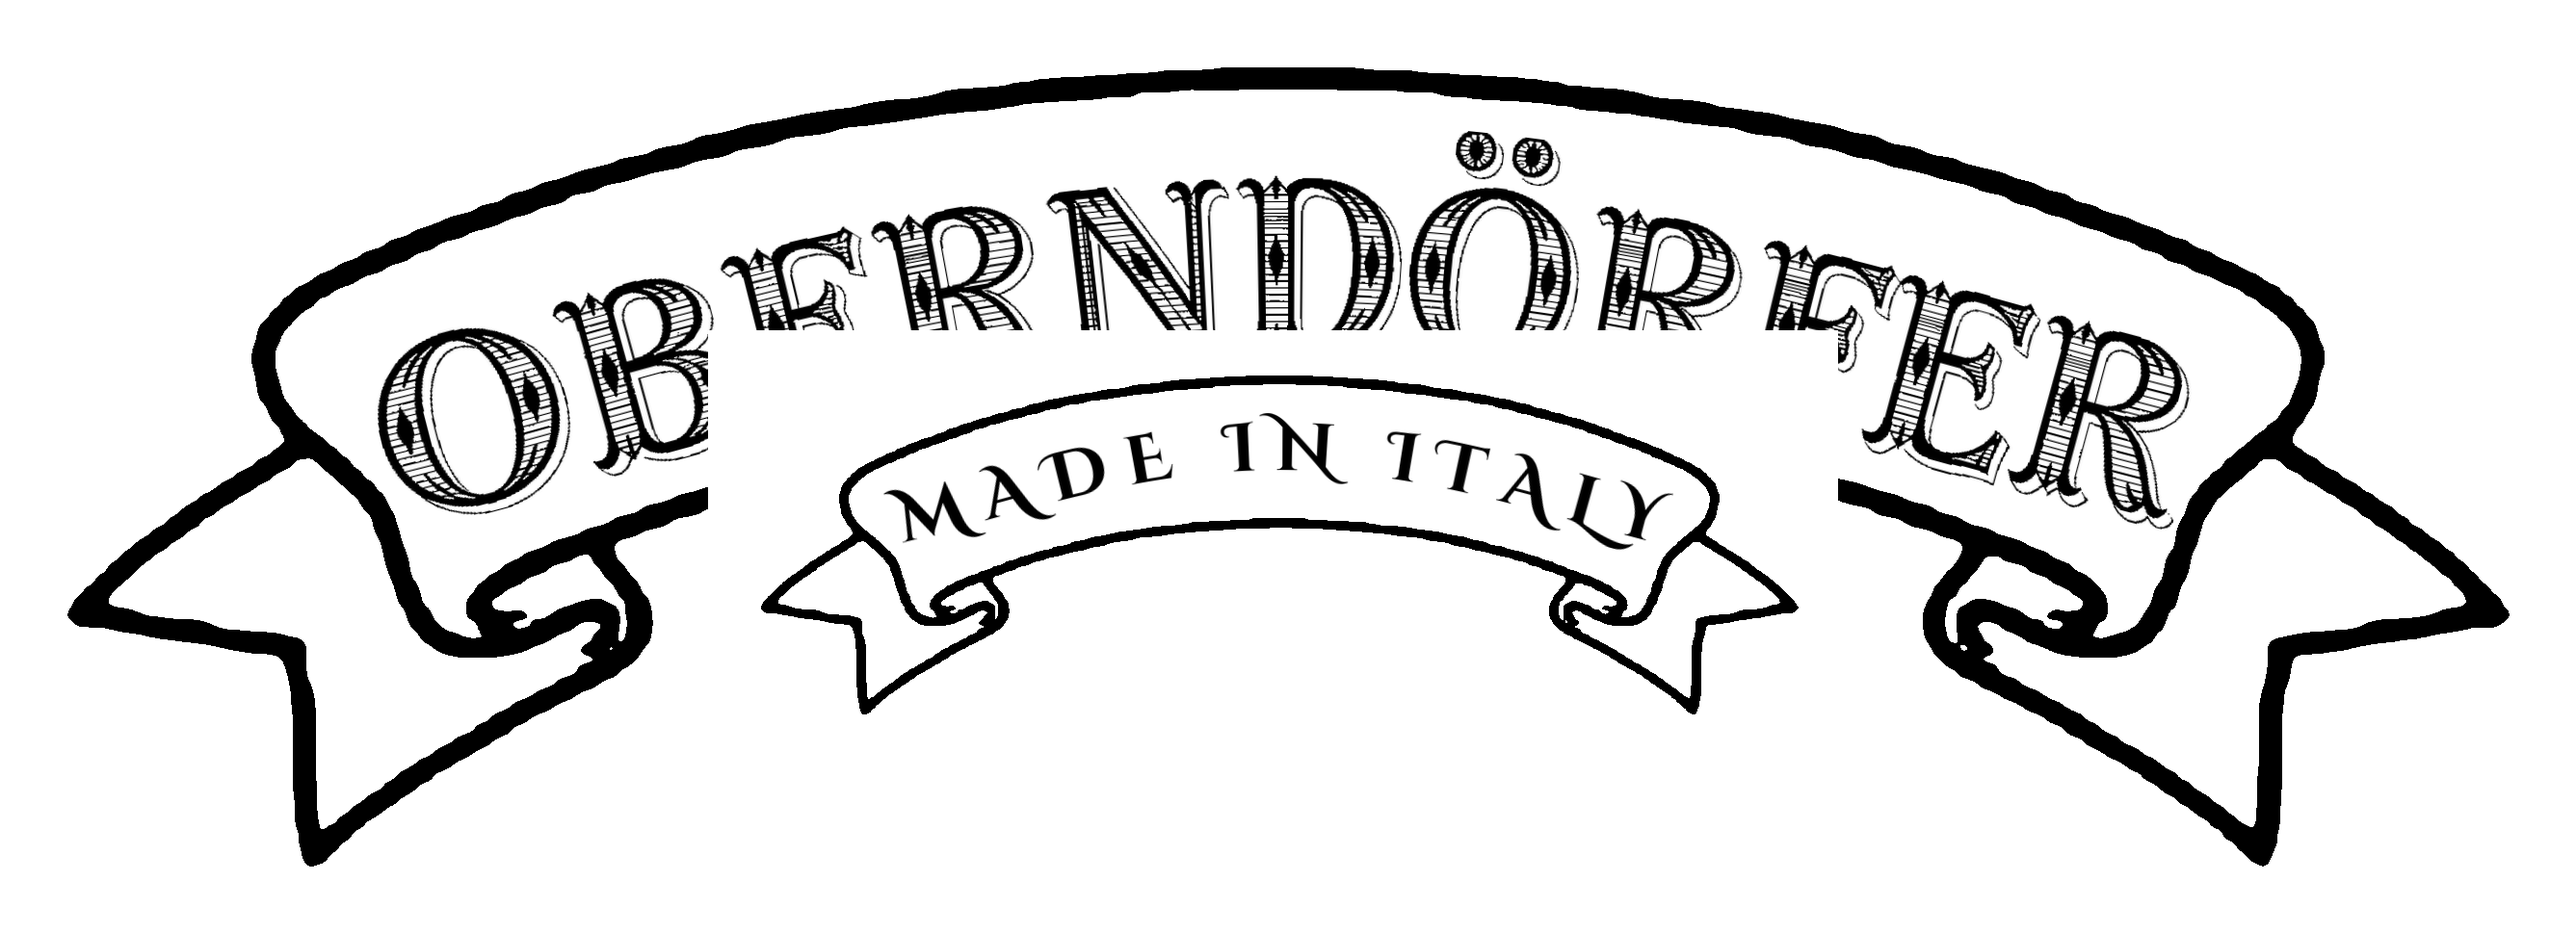
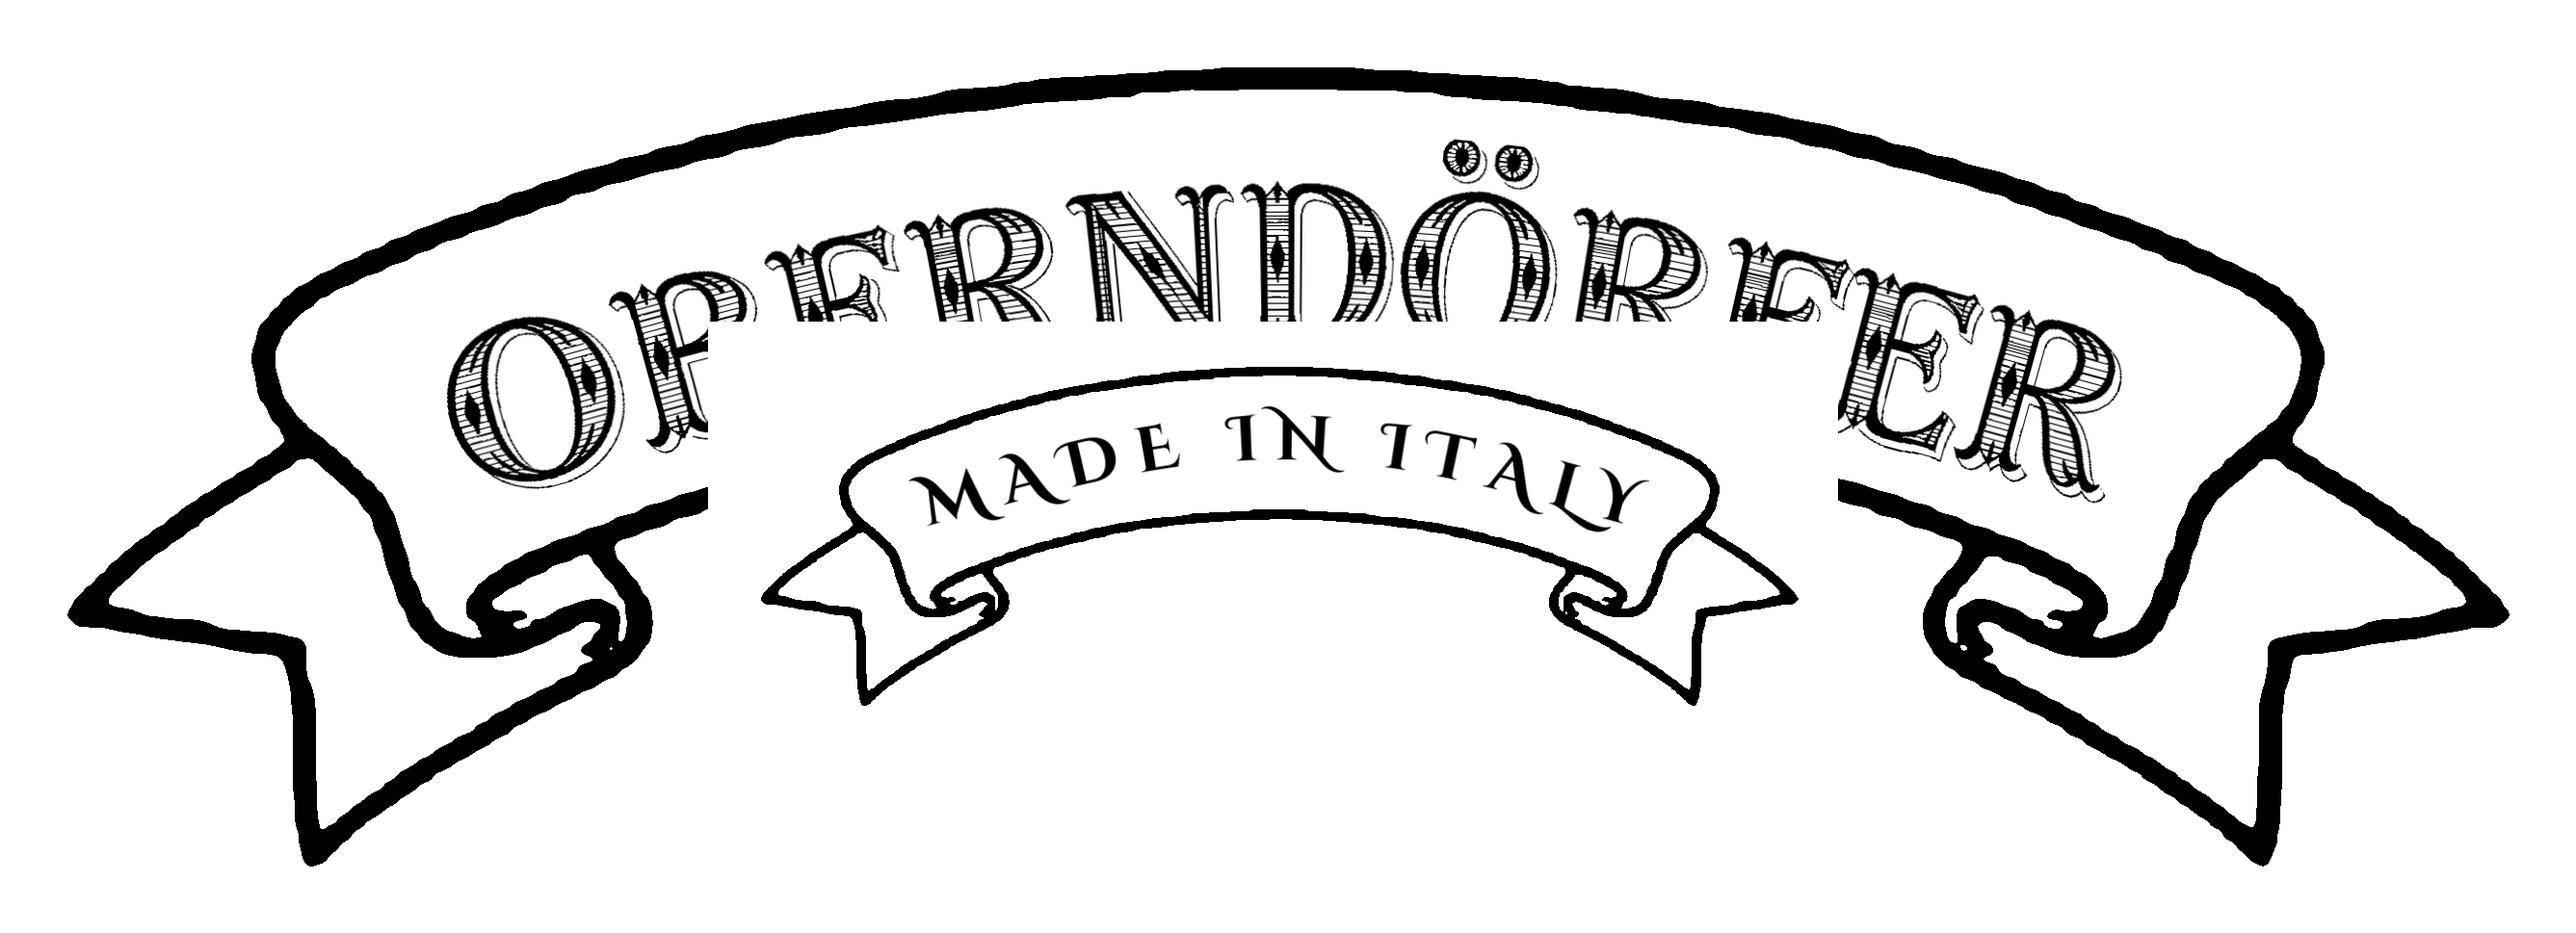
Fit the wordmark by real containment, not a percentile
The previous fit allowed 3% of columns to overflow, which let the O and
the final R cross the band's lower edge. Replaced with a binary search
on scale that rasterises the bent wordmark and requires every pixel,
grown by the margin, to lie inside the traced band face. Verified: 0
pixels outside.

Claude-Session: https://claude.ai/code/session_01Suw872BgehQS8UkrxB9n1u

Changed region(s): [[0.1242, 0.1238, 0.8691, 0.743]]

diff --git a/assets/oberndorfer-plate/chosen/lockup.py b/assets/oberndorfer-plate/chosen/lockup.py
@@ -51,7 +51,8 @@ def face_of(im):
     best=max(sz.items(),key=lambda kv:kv[1])[0]
     return lab==best
 
-def fit_word(ribimg, face, wm, margin, pctl=3):
+def fit_word(ribimg, face, wm, margin=10, clearance_iters=5):
+    """Largest scale whose BENT wordmark lies wholly inside the band face."""
     H,W=face.shape; SW,SH=wm.size
     cx=[];cy=[];hh=[]
     for x in range(W):
@@ -60,19 +61,38 @@ def fit_word(ribimg, face, wm, margin, pctl=3):
     cx=np.array(cx,float);cy=np.array(cy,float);hh=np.array(hh,float)
     lo,hi=np.percentile(cx,[4,96]); sel=(cx>=lo)&(cx<=hi)
     CO=np.polyfit(cx[sel],cy[sel],4); DCO=np.polyder(CO)
-    perp=np.interp(np.arange(W),cx,hh)*np.cos(np.arctan(np.polyval(DCO,np.arange(W))))
-    mid=(lo+hi)/2.; best=None
-    for L in range(300,int(W*1.2),4):
-        xa,xb=mid-L/2.,mid+L/2.
-        if xa<lo+8 or xb>hi-8: continue
-        s=L/SW
-        if s*SH/2. <= np.percentile(perp[int(xa):int(xb)+1],pctl)-margin: best=(L,s)
-    L,s=best
-    w2=wm.resize((max(1,int(SW*s)),max(1,int(SH*s))),Image.LANCZOS); xoff=mid-w2.width/2.
-    bw,ox,oy=bend_poly(w2, lambda t: np.polyval(CO,np.asarray(t)+xoff),
-                           lambda t: np.polyval(DCO,np.asarray(t)+xoff))
-    out=ribimg.copy(); out.alpha_composite(bw,(int(round(xoff+ox)),int(round(oy))))
-    return out, 100*(s*SH/2)/np.percentile(perp[int(mid-L/2):int(mid+L/2)],pctl)
+    mid=(lo+hi)/2.
+    faceimg=Image.fromarray((face*255).astype(np.uint8))
+
+    def attempt(s):
+        w2=wm.resize((max(8,int(SW*s)),max(2,int(SH*s))),Image.LANCZOS)
+        xoff=mid-w2.width/2.
+        bw,ox,oy=bend_poly(w2, lambda t: np.polyval(CO,np.asarray(t)+xoff),
+                               lambda t: np.polyval(DCO,np.asarray(t)+xoff))
+        px=int(round(xoff+ox)); py=int(round(oy))
+        canvas=Image.new("L",(W,H),0)
+        a=Image.fromarray((np.asarray(bw)[:,:,3]>40).astype(np.uint8)*255)
+        canvas.paste(a,(px,py))
+        grown=canvas
+        for _ in range(clearance_iters):
+            grown=grown.filter(ImageFilter.MaxFilter(margin//clearance_iters*2+1))
+        g=np.asarray(grown)>0
+        ok = not (g & ~face).any()
+        return ok,bw,px,py
+
+    glo,ghi=0.05,1.6
+    best=None
+    for _ in range(16):
+        s=(glo+ghi)/2.
+        ok,bw,px,py=attempt(s)
+        if ok: best=(s,bw,px,py); glo=s
+        else:  ghi=s
+    if best is None: raise SystemExit("no containable scale")
+    s,bw,px,py=best
+    s*=0.93
+    ok,bw,px,py=attempt(s)
+    out=ribimg.copy(); out.alpha_composite(bw,(px,py))
+    return out, s
 
 def textimg(txt,px,track):
     f=ImageFont.truetype(FONT,px); adv=[(c,f.getlength(c)) for c in txt]
@@ -84,13 +104,13 @@ def textimg(txt,px,track):
 
 T1=ribbon_bw(6.0); f1=face_of(T1)
 WM=Image.open(HERE+"/schrift-bw.png").convert("RGBA")
-t1,fill1=fit_word(T1,f1,WM,margin=16)
-print("tier1",T1.size,"fill %.0f%%"%fill1)
+t1,fill1=fit_word(T1,f1,WM,margin=14)
+print("tier1",T1.size,"scale %.3f"%fill1)
 
 T2=ribbon_bw(2.55); f2=face_of(T2)
 MI=textimg("MADE IN ITALY", 150, 40)
-t2,fill2=fit_word(T2,f2,MI,margin=14)
-print("tier2",T2.size,"fill %.0f%%"%fill2)
+t2,fill2=fit_word(T2,f2,MI,margin=10)
+print("tier2",T2.size,"scale %.3f"%fill2)
 
 # lowest ink of the WORD inside tier one, per column
 d=(np.asarray(t1).astype(int)-np.asarray(T1).astype(int))
